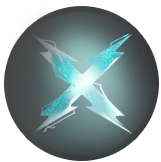
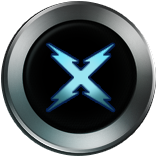
new sprites

diff --git a/test.py b/test.py
@@ -9,7 +9,7 @@ pygame.init()
 mixer.init()
 mixer.music.load("8bit.mp3")
 pygame.mixer.music.set_volume(0.15)
-pygame.mixer.music.play(-1,0.0)
+pygame.mixer.music.play(-1, 0.0)
 
 info = pygame.display.Info()
 SCREEN_WIDTH, SCREEN_HEIGHT = info.current_w, info.current_h
@@ -32,9 +32,11 @@ GRID_START_Y = (SCREEN_HEIGHT - int(GRID_HEIGHT * 1.25)) // 2
 
 WHITE = (255, 255, 255)
 
-def load_sprite(filename, CUSTOM_SIZE = (CELL_SIZE, CELL_SIZE)):
+
+def load_sprite(filename, CUSTOM_SIZE=(CELL_SIZE, CELL_SIZE)):
     img = pygame.image.load(filename).convert_alpha()
     return pygame.transform.scale(img, CUSTOM_SIZE)
+
 
 sprites = {
     1: load_sprite("cat.png"),
@@ -58,19 +60,22 @@ turret_button_images = {
     4: pygame.transform.scale(pygame.image.load("button_wall.png").convert_alpha(), BUTTON_SIZE),
 }
 
+
 # helper function for the minions test
 def load_img(path):
     img = pygame.image.load(path).convert()
     img = pygame.transform.scale(img, (SCREEN_WIDTH, SCREEN_HEIGHT))
     return img
 
-cat_bottom_right = [load_sprite("cat_animation/f1.png", CUSTOM_SIZE = (530 // 2, 615 // 2)),
-                    load_sprite("cat_animation/f2.png", CUSTOM_SIZE = (530 // 2, 615 // 2)),
-                    load_sprite("cat_animation/f3.png", CUSTOM_SIZE = (530 // 2, 615 // 2))]
+
+cat_bottom_right = [load_sprite("cat_animation/f1.png", CUSTOM_SIZE=(530 // 2, 615 // 2)),
+                    load_sprite("cat_animation/f2.png", CUSTOM_SIZE=(530 // 2, 615 // 2)),
+                    load_sprite("cat_animation/f3.png", CUSTOM_SIZE=(530 // 2, 615 // 2))]
 
 wave_button_image = pygame.transform.scale(pygame.image.load("start_wave.png").convert_alpha(), BUTTON_SIZE)
 rewind_button_image = pygame.transform.scale(pygame.image.load("rewind_button.png").convert_alpha(), BUTTON_SIZE)
-quit_button_image = pygame.transform.scale(pygame.image.load("quit_button_final.png").convert_alpha(), BUTTON_SIZE_SMALL)
+quit_button_image = pygame.transform.scale(pygame.image.load("quit_button_final.png").convert_alpha(),
+                                           BUTTON_SIZE_SMALL)
 
 background_img = pygame.image.load("background_layout.png").convert()
 background_img = pygame.transform.scale(background_img, (SCREEN_WIDTH, SCREEN_HEIGHT))
@@ -87,7 +92,7 @@ button_positions = {
     5: (BUTTON_CENTER_X - CELL_SIZE * 1.5, BUTTON_CENTER_Y - 10),  # Left
 }
 
-#right button settings
+# right button settings
 WAVE_BUTTON_X = GRID_START_X + GRID_WIDTH + CELL_SIZE * 2 - 5
 WAVE_BUTTON_Y = GRID_START_Y + GRID_HEIGHT // 2.8
 WAVE_BUTTON_RADIUS = CELL_SIZE * 0.75
@@ -110,16 +115,19 @@ popup = {
     "duration": 1  # seconds
 }
 
+
 def play_sound(sound_file):
     sound = pygame.mixer.Sound(sound_file)
     sound.set_volume(0.2)
     sound.play()
+
 
 def show_popup(text, timer):
     popup["text"] = text
     popup["start_time"] = time.time()
     popup["active"] = True
     popup["duration"] = timer
+
 
 def draw_popup():
     if not popup["active"]:
@@ -130,7 +138,7 @@ def draw_popup():
         popup["active"] = False
         return
 
-    #rectangle
+    # rectangle
     rect_width, rect_height = len(popup["text"]) * 16 + 50, 100
     rect_x = (screen.get_width() - rect_width) // 2
     rect_y = (screen.get_height() - rect_height) // 2
@@ -139,9 +147,9 @@ def draw_popup():
     s.fill((0, 0, 0, 180))  # semi transparent (180)
     screen.blit(s, (rect_x, rect_y))
 
-    #popup text
+    # popup text
     text_surf = font.render(popup["text"], True, (255, 255, 255))
-    text_rect = text_surf.get_rect(center=(rect_x + rect_width//2, rect_y + rect_height//2))
+    text_rect = text_surf.get_rect(center=(rect_x + rect_width // 2, rect_y + rect_height // 2))
     screen.blit(text_surf, text_rect)
 
 
@@ -168,6 +176,8 @@ def draw_tooltip(screen, text, mouse_pos):
     for surf in line_surfs:
         screen.blit(surf, (tooltip_x, current_y))
         current_y += surf.get_height()
+
+
 # Saves a state, used for recall
 def save_game_state():
     state = {
@@ -177,7 +187,8 @@ def save_game_state():
         'currency': currency,
         'wave_number': wave_number,
     }
-    saved_states.append(state) #save everything
+    saved_states.append(state)  # save everything
+
 
 class Enemy:
     def __init__(self):
@@ -269,13 +280,16 @@ class Enemy:
             logic_matrix[new_y][new_x] = self.type
             self.x, self.y = new_x, new_y
 
+
 class Turret:
     def __init__(self, x, y, turret_type):
         self.x = x
         self.y = y
         self.type = turret_type
 
+
 last_fired_tiles = []
+
 
 def fire_turrets(matrix, tick):
     fired = []
@@ -283,11 +297,11 @@ def fire_turrets(matrix, tick):
     for turret in turrets:
         x, y, t_type = turret.x, turret.y, turret.type
 
-        orthogonal = [(-1, 0), (1, 0), (0, -1), (0, 1)] # plus sign
-        diagonal = [(-1, -1), (-1, 1), (1, -1), (1, 1)] # x sign
-        all_dirs = orthogonal + diagonal # aoe
+        orthogonal = [(-1, 0), (1, 0), (0, -1), (0, 1)]  # plus sign
+        diagonal = [(-1, -1), (-1, 1), (1, -1), (1, 1)]  # x sign
+        all_dirs = orthogonal + diagonal  # aoe
 
-        if t_type == 2 and tick % 3 == 0: #aoe turret fires on %3 ticks
+        if t_type == 2 and tick % 3 == 0:  # aoe turret fires on %3 ticks
             play_sound("shoot_orange.mp3")
             for dx, dy in all_dirs:
                 tx, ty = x + dx, y + dy
@@ -301,7 +315,7 @@ def fire_turrets(matrix, tick):
                         matrix[ty][tx] = 7
                         fired.append((tx, ty))
 
-        elif t_type == 3 and tick % 2 == 0: # x sign turret fires on %2 ticks
+        elif t_type == 3 and tick % 2 == 0:  # x sign turret fires on %2 ticks
             play_sound("shoot_blue.mp3")
             for dx, dy in diagonal:
                 tx, ty = x + dx, y + dy
@@ -315,7 +329,7 @@ def fire_turrets(matrix, tick):
                         matrix[ty][tx] = 8
                         fired.append((tx, ty))
 
-        elif t_type == 4 and tick % 2 == 1: # + sign turret fires on %2==1 ticks
+        elif t_type == 4 and tick % 2 == 1:  # + sign turret fires on %2==1 ticks
             play_sound("shoot_green.mp3")
             for dx, dy in orthogonal:
                 tx, ty = x + dx, y + dy
@@ -331,6 +345,7 @@ def fire_turrets(matrix, tick):
 
     return fired
 
+
 def trigger_anomaly():
     show_popup("Rewinded time!", 1.5)
     play_sound("rewind_sound.mp3")
@@ -339,23 +354,24 @@ def trigger_anomaly():
     while 3 <= random_x <= 5 and 3 <= random_y <= 5:
         random_x = random.randint(1, COLS - 2)
         random_y = random.randint(1, ROWS - 2)
-    LOGIC_MATRIX[random_y][random_x] =  10
-
+    LOGIC_MATRIX[random_y][random_x] = 10
 
 
 # Helper class that handles all animated object
 # Parameters: object that gets the sprites changed
-            # animation_frames is the vector that is used for animation loops
-            # time_to_complete_loop : how fast the loop should go, in seconds
-            # loop_back : whether to change loop direction upon finishing a loop
-            # coords_can_change : if True, then coords will be evaluated upon advancing the frame
+# animation_frames is the vector that is used for animation loops
+# time_to_complete_loop : how fast the loop should go, in seconds
+# loop_back : whether to change loop direction upon finishing a loop
+# coords_can_change : if True, then coords will be evaluated upon advancing the frame
 class Animated:
     # Static members: starting clock
     starting_clock = 0
     has_overwritten_clock = False
+
     # time_to_complete_loop = (float)(1.0) # 1 second for an entire animation loop
-    
-    def __init__(self, coords, animation_frames, time_to_complete_loop = ((float)(1.0)), loop_back = False, coords_can_change = False):
+
+    def __init__(self, coords, animation_frames, time_to_complete_loop=((float)(1.0)), loop_back=False,
+                 coords_can_change=False):
         self.coords = coords
         self.animation_frames = animation_frames
         self.animation_frame_direction = 1
@@ -366,7 +382,7 @@ class Animated:
         self.time_to_change_frame = self.time_to_complete_loop / ((float)(len(self.animation_frames)))
         self.last_updated = pygame.time.get_ticks()
         # When the first animated object is created, get the time
-        if not(Animated.has_overwritten_clock):
+        if not (Animated.has_overwritten_clock):
             Animated.has_overwritten_clock = True
             Animated.starting_clock = pygame.time.get_ticks()
 
@@ -375,29 +391,33 @@ class Animated:
         # use the global screen variable
         global screen
         # if the frame hasn't been updated in a while
-        if(pygame.time.get_ticks() - self.last_updated > self.time_to_change_frame * 1000):
+        if (pygame.time.get_ticks() - self.last_updated > self.time_to_change_frame * 1000):
             self.last_updated = pygame.time.get_ticks()
             # Switch to the next frame
             self.animation_frame += self.animation_frame_direction
             # If the next frame is out of bounds, reset the loop
-            if(self.animation_frame == -1 or self.animation_frame == len(self.animation_frames)):
+            if (self.animation_frame == -1 or self.animation_frame == len(self.animation_frames)):
                 self.animation_frame_direction *= -1
-                if not(self.loop_back):
+                if not (self.loop_back):
                     self.animation_frame_direction = 1
                     self.animation_frame = -1
                 self.animation_frame += self.animation_frame_direction
-        if not(self.coords_can_change):
+        if not (self.coords_can_change):
             screen.blit(self.animation_frames[self.animation_frame], self.coords)
         else:
-            if(self.coords[0][0] >= 0):
+            if (self.coords[0][0] >= 0):
                 screen.blit(self.animation_frames[self.animation_frame], self.coords[0])
 
+
 objects_to_animate = []
+
+
 def animation_loop():
     for object in objects_to_animate:
         object.advance_frame()
 
-objects_to_animate = [Animated((0, 0), [background_img], time_to_complete_loop = 0.5)]
+
+objects_to_animate = [Animated((0, 0), [background_img], time_to_complete_loop=0.5)]
 
 sprites_coords = {}
 
@@ -407,11 +427,14 @@ if False:
         # See if sprites is an array or not
         try:
             sprites[value][0]
-            objects_to_animate.append(Animated(sprites_coords[value], sprites[value], coords_can_change = True, time_to_complete_loop = 1))
+            objects_to_animate.append(
+                Animated(sprites_coords[value], sprites[value], coords_can_change=True, time_to_complete_loop=1))
         except:
-            objects_to_animate.append(Animated(sprites_coords[value], [sprites[value]], coords_can_change = True, time_to_complete_loop = 1))
+            objects_to_animate.append(
+                Animated(sprites_coords[value], [sprites[value]], coords_can_change=True, time_to_complete_loop=1))
 
-objects_to_animate.append(Animated((GRID_START_X + GRID_WIDTH + CELL_SIZE + 20, GRID_START_Y + GRID_HEIGHT // 2 + 70), cat_bottom_right))
+objects_to_animate.append(
+    Animated((GRID_START_X + GRID_WIDTH + CELL_SIZE + 20, GRID_START_Y + GRID_HEIGHT // 2 + 70), cat_bottom_right))
 
 
 def draw_grid():
@@ -439,8 +462,8 @@ def draw_grid():
     hp_text = font.render(f"HP: {player_hp}", True, WHITE)
     currency_text = font.render(f"Currency: {currency}", True, WHITE)
 
-    wave_text_rect = wave_num_text.get_rect(center=(SCREEN_WIDTH // 2, below_grid_y + 50)) # wave text
-    hp_text_rect = hp_text.get_rect(center=(SCREEN_WIDTH // 2, below_grid_y + 80)) # hp text
+    wave_text_rect = wave_num_text.get_rect(center=(SCREEN_WIDTH // 2, below_grid_y + 50))  # wave text
+    hp_text_rect = hp_text.get_rect(center=(SCREEN_WIDTH // 2, below_grid_y + 80))  # hp text
     currency_text_rect = currency_text.get_rect(center=(SCREEN_WIDTH // 2, below_grid_y + 110))
 
     screen.blit(wave_num_text, wave_text_rect)
@@ -458,6 +481,7 @@ def draw_grid():
             if value in sprites:
                 screen.blit(sprites[value], (x, y))
 
+
 def rewind():
     global LOGIC_MATRIX, enemies, turrets, player_hp, wave_number, currency
     if len(saved_states) >= 2:
@@ -473,6 +497,7 @@ def rewind():
         save_game_state()
     else:
         print("Not enough save states to rewind to second to last.")
+
 
 clock = pygame.time.Clock()
 last_spawn = pygame.time.get_ticks()
@@ -552,7 +577,8 @@ while True:
                             # rewind
                             for row in range(ROWS):
                                 for col in range(COLS):
-                                    if LOGIC_MATRIX[row][col] == 7 or LOGIC_MATRIX[row][col] == 8 or LOGIC_MATRIX[row][col] == 9:
+                                    if LOGIC_MATRIX[row][col] == 7 or LOGIC_MATRIX[row][col] == 8 or LOGIC_MATRIX[row][
+                                        col] == 9:
                                         LOGIC_MATRIX[row][col] = 0
                             rewind()
                             rewind_used = True
@@ -585,7 +611,8 @@ while True:
                         cell_y = GRID_START_Y + row * CELL_SIZE
                         cell_rect = pygame.Rect(cell_x, cell_y, CELL_SIZE, CELL_SIZE)
                         if cell_rect.collidepoint(mouse_pos):
-                            if not wave_active and LOGIC_MATRIX[row][col] == 0 and selected_number  and currency >= currency_needed:
+                            if not wave_active and LOGIC_MATRIX[row][
+                                col] == 0 and selected_number and currency >= currency_needed:
                                 LOGIC_MATRIX[row][col] = selected_number
                                 if selected_number in (2, 3, 4, 5):
                                     turrets.append(Turret(col, row, selected_number))
@@ -600,7 +627,7 @@ while True:
 
     current_time = pygame.time.get_ticks()
 
-    if current_time - last_move >= move_interval: # 1 "move tick" = 1 second
+    if current_time - last_move >= move_interval:  # 1 "move tick" = 1 second
         last_move = current_time
         global_tick += 1
 
@@ -646,7 +673,7 @@ while True:
             if player_hp > 0:
                 wave_active = False
                 if wave_number == 5:
-                    show_popup(f"Game Finished! Score = {player_hp*(currency+100)/100}", 10)
+                    show_popup(f"Game Finished! Score = {player_hp * (currency + 100) / 100}", 10)
                 else:
                     currency += reward
                     save_game_state()
